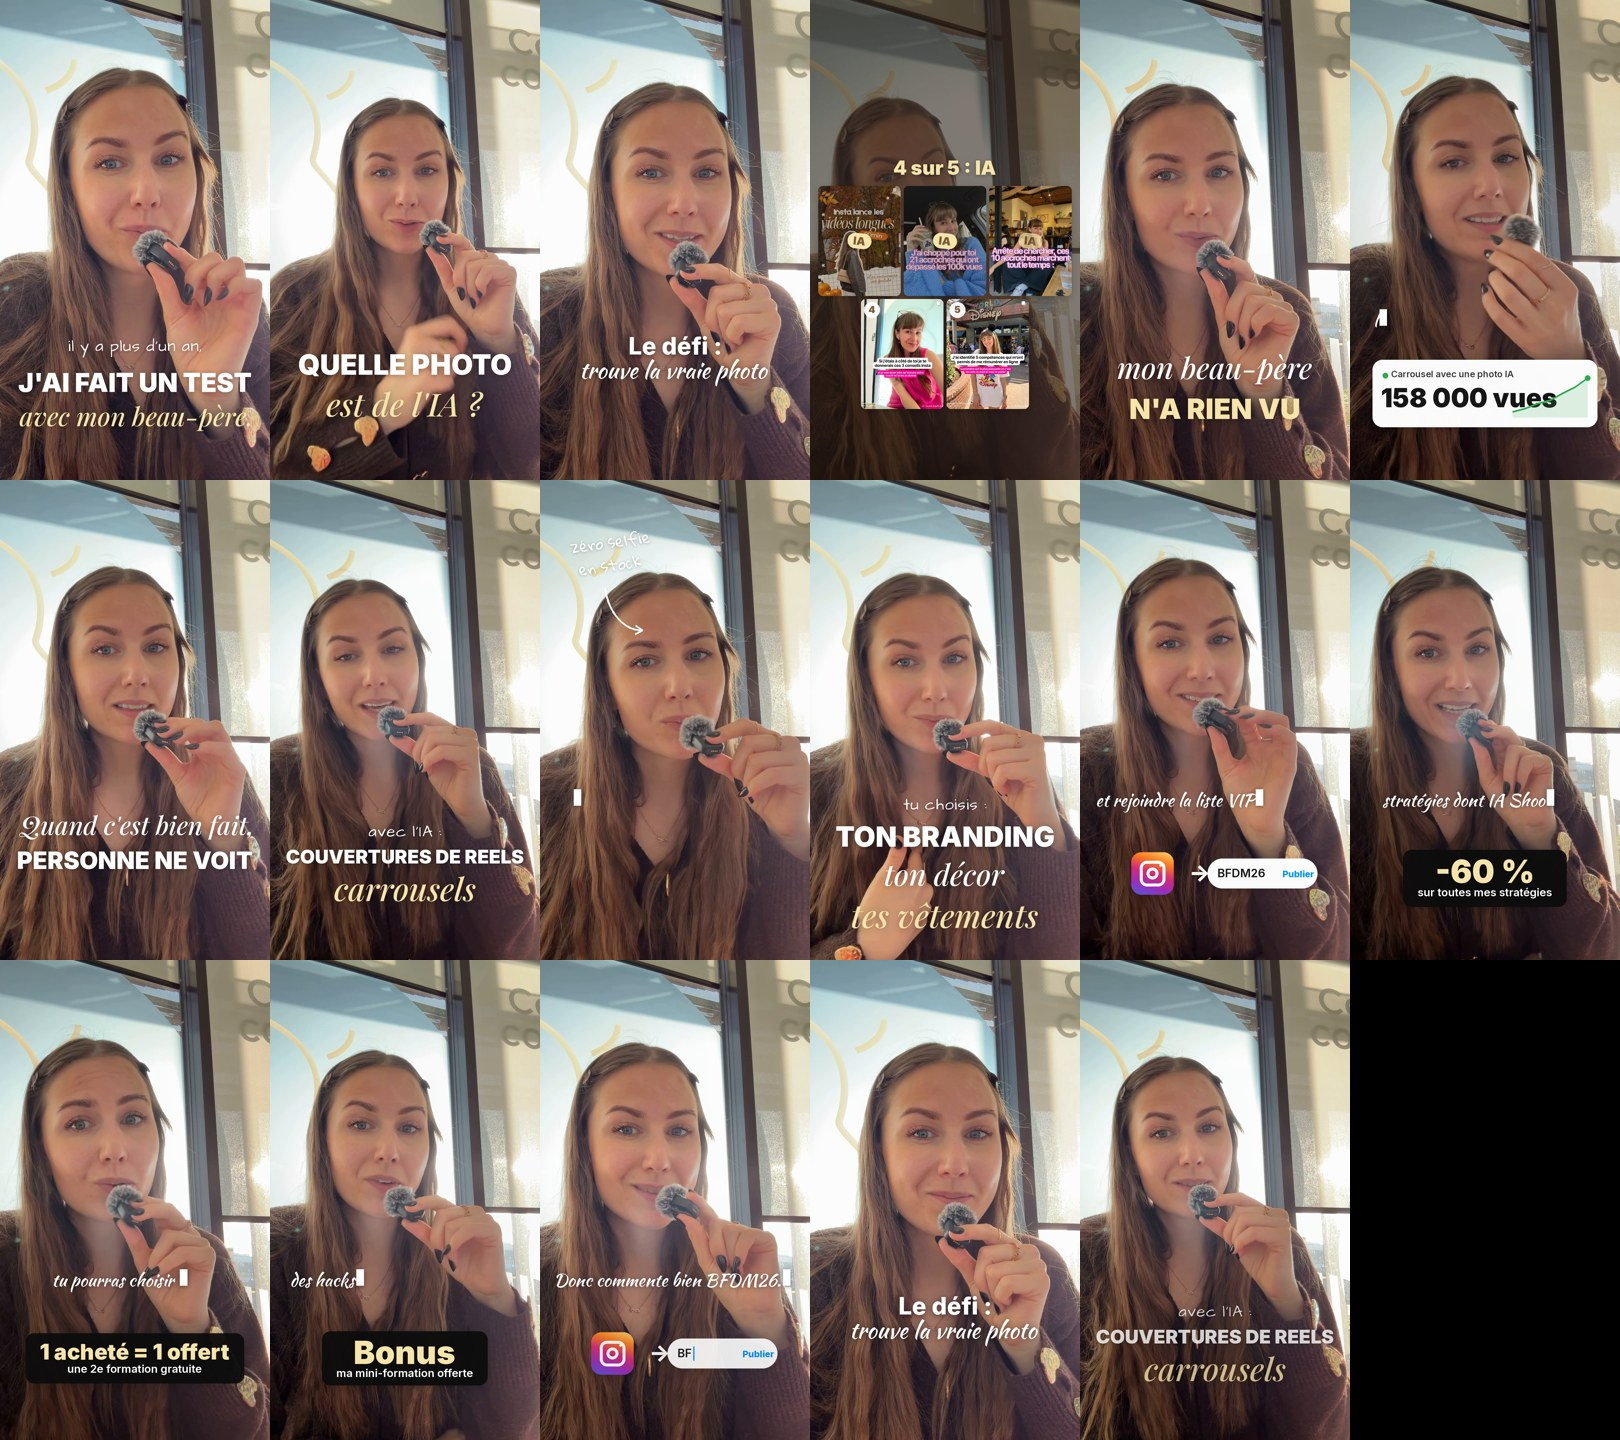
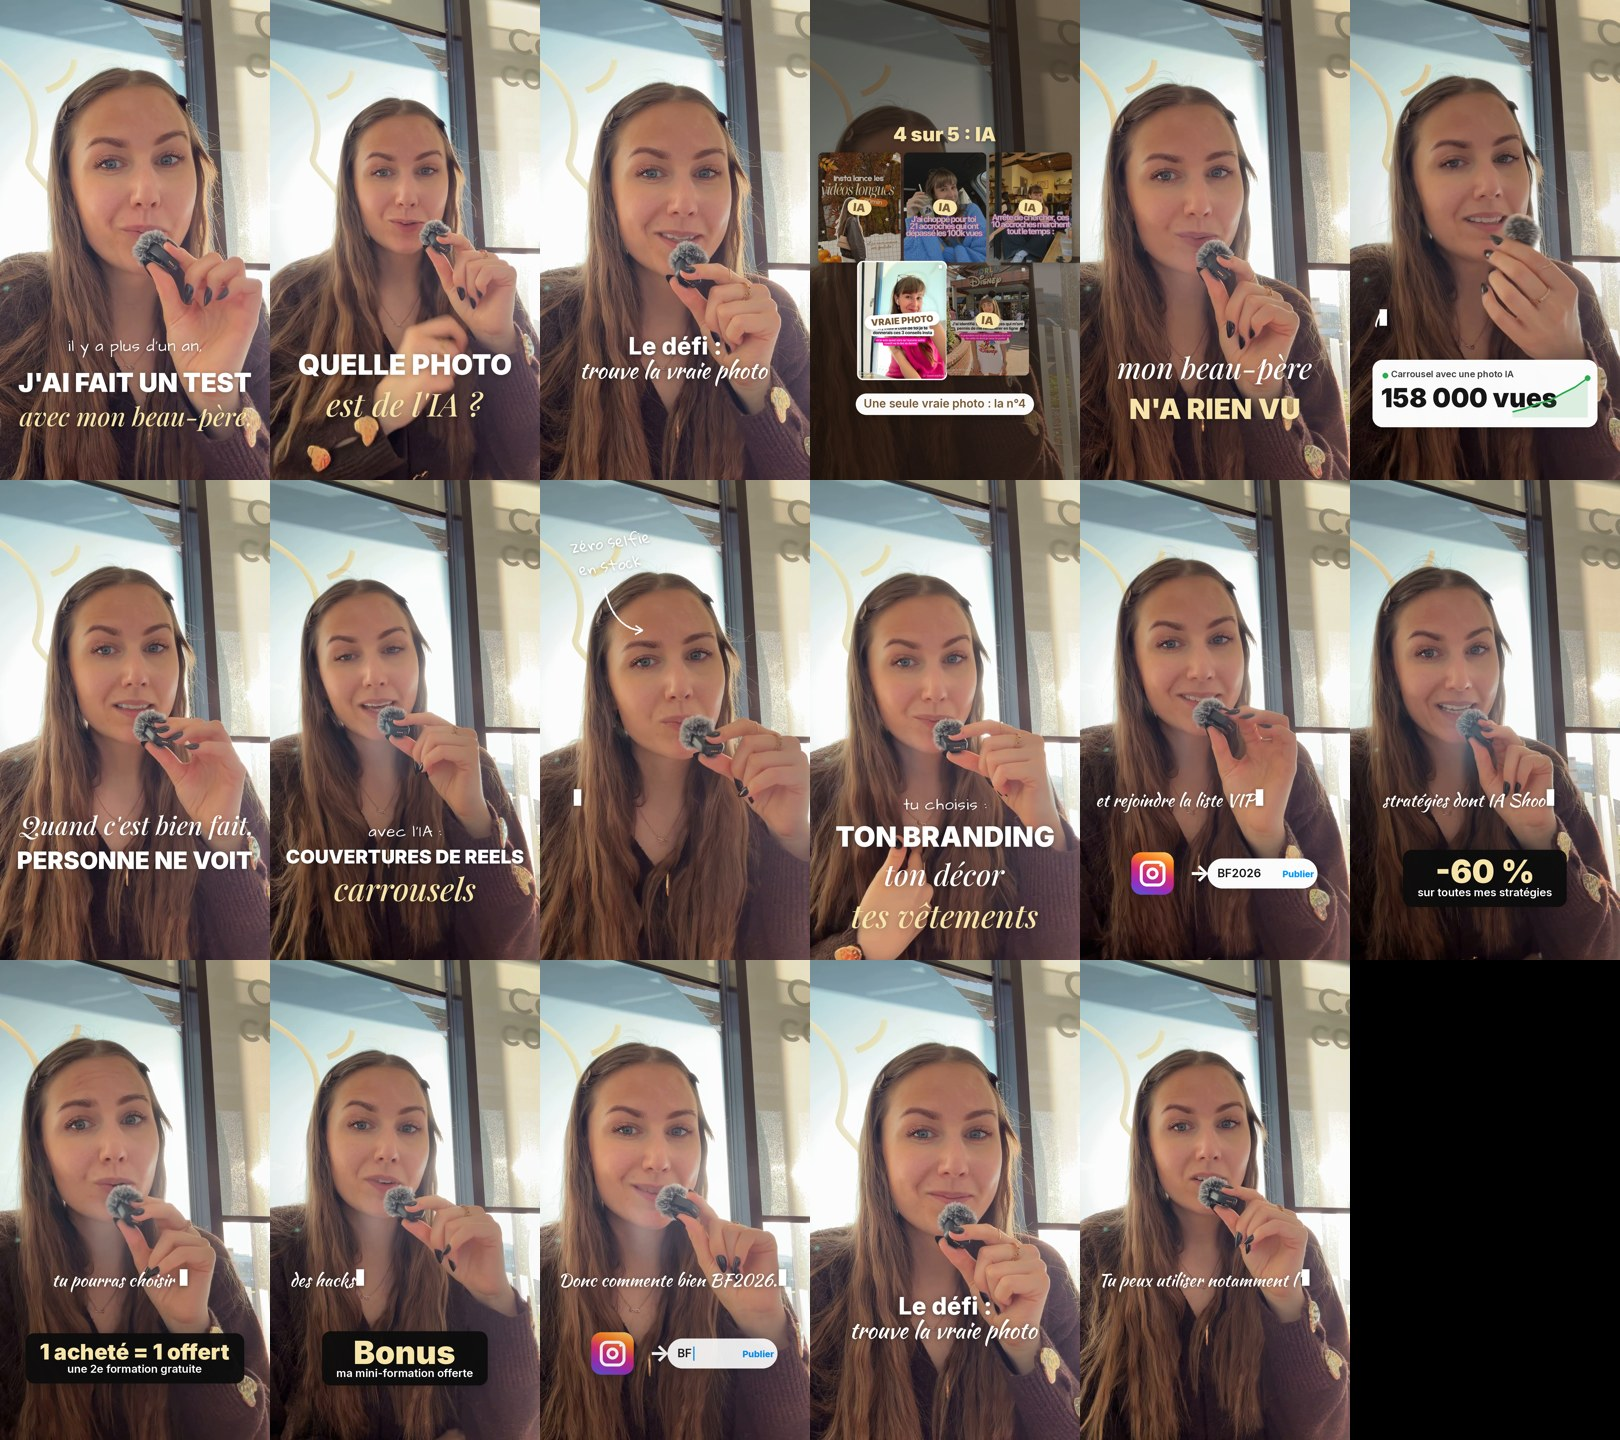
Reel « défi IA » v2 : CTA BF2026, révélation ralentie
Pastilles posées une à une (0,55 s), titre « 4 sur 5 : IA » à la fin,
légende « Une seule vraie photo : la n°4 » et 3 s de pause en plus
(nouvelle option inserer_apres dans render_hd).

Claude-Session: https://claude.ai/code/session_012NkAczQQvfrf3JmhCLvcV2

diff --git a/tools/reel_v2.py b/tools/reel_v2.py
@@ -682,6 +682,13 @@ class Feed(El):
         self.head = text_spr(s["entete"], "black", 78, YELLOW) if s.get("entete") else None
         self.head2 = text_spr(s["entete_revele"], "black", 78, YELLOW) if s.get("entete_revele") else None
         self.reveal = T(s["revele_at"]) if "revele_at" in s else None
+        self.step = s.get("pas_revele", 0.18)
+        self.leg = None
+        if s.get("legende_revele"):
+            tx = text_spr(s["legende_revele"], "semi", 46, (122, 91, 56, 255), shadow=False)
+            pill = rrect((tx.width + 70, tx.height + 40), (tx.height + 40) // 2, (255, 255, 255, 250))
+            pill.alpha_composite(tx, (35, 20))
+            self.leg = shadowed(pill, 14, (0, 8), 120)
         self.badges = {}
         for txt, bg, fg in (("IA", (246, 228, 170, 255), (122, 91, 56, 255)), ("VRAIE PHOTO", (255, 255, 255, 255), (122, 91, 56, 255))):
             tx = text_spr(txt, "black", 44 if txt == "IA" else 36, fg, shadow=False)
@@ -697,14 +704,16 @@ class Feed(El):
             self.nums.append(b)
         self.sfx = [(self.t0, "woosh", 0.4)] + [(self.t0 + 0.12 * k, "pop", 0.25) for k in range(n)]
         if self.reveal is not None:
-            self.sfx += [(self.reveal + 0.18 * k, "click2" if not c[1] else "notif2", 0.6) for k, c in enumerate(self.cells)]
+            self.sfx += [(self.reveal + self.step * k, "click2" if not c[1] else "notif2", 0.6) for k, c in enumerate(self.cells)]
+            if self.leg:
+                self.sfx.append((self.reveal + self.step * len(self.cells) + 0.2, "pop", 0.4))
 
     def draw(self, c, t):
         _, out = self.life(t)
         inn = min(1, (t - self.t0) / 0.3)
         dim = Image.new("RGBA", (W, H), (40, 28, 18, int(150 * inn * out)))
         c.alpha_composite(dim)
-        rv = self.reveal is not None and t >= self.reveal
+        rv = self.reveal is not None and t >= self.reveal + self.step * (len(self.cells) - 1) + 0.3
         hd = self.head2 if (rv and self.head2) else self.head
         if hd:
             put(c, hd, W / 2, self.top - hd.height / 2 - 20, alpha=ease_out((t - self.t0) / 0.3) * out)
@@ -712,7 +721,7 @@ class Feed(El):
             u = (t - self.t0 - 0.12 * k) / 0.35
             if u < 0:
                 continue
-            ta = self.reveal + 0.18 * k if self.reveal is not None else 1e9
+            ta = self.reveal + self.step * k if self.reveal is not None else 1e9
             v = (t - ta) / 0.3
             card = im.copy().convert("RGBA")
             if v >= 0 and not real:
@@ -729,6 +738,12 @@ class Feed(El):
             else:
                 b = self.badges["VRAIE PHOTO" if real else "IA"]
                 put(c, b, x, y, scale=0.5 + 0.5 * ease_back(min(1, v)), alpha=min(1, v * 2) * out, rot=-6 if not real else 4)
+        if self.leg and self.reveal is not None:
+            tl = self.reveal + self.step * len(self.cells) + 0.2
+            u = (t - tl) / 0.35
+            if u >= 0:
+                yb = self.pos[-1][1] + self.ch / 2 + 30 + self.leg.height / 2
+                put(c, self.leg, W / 2, yb + 30 * (1 - ease_out(min(1, u))), scale=0.85 + 0.15 * ease_back(min(1, u)), alpha=min(1, u * 2) * out)
 
 TYPES = {"kinetic": Kinetic, "chapitre": Chapter, "carte_noire": DarkCard, "resultat": ResultCard,
          "dm": DMStack, "telephone": Phone, "menu": Sheet, "commentaire": CommentCTA, "note": Note, "photos": Photos, "capture": Capture, "ecran": ScreenRec, "feed": Feed}

diff --git a/tools/render_hd.py b/tools/render_hd.py
@@ -87,6 +87,16 @@ def plan(tr, ed):
     for s in segs:
         s["s"] = round(s["s"] * FPS) / FPS
         s["e"] = max(s["s"] + 2 / FPS, round(s["e"] * FPS) / FPS)
+    # plans muets insérés après un mot (« pause » pour laisser lire une animation) : {"index": [début, fin] en s source}
+    for k, (a, b) in sorted(((int(k), v) for k, v in ed.get("inserer_apres", {}).items()), reverse=True):
+        j = next(n for n, sg in enumerate(segs) if any(w["i"] == k for w in sg["words"]))
+        sg = segs[j]
+        if sg["words"][-1]["i"] != k:   # coupe le plan juste après ce mot
+            m = [w["i"] for w in sg["words"]].index(k) + 1
+            cut_t = round(sg["words"][m]["start"] * FPS) / FPS
+            segs.insert(j + 1, {"s": cut_t, "e": sg["e"], "last": sg["last"], "words": sg["words"][m:]})
+            sg["e"], sg["last"], sg["words"] = cut_t, k, sg["words"][:m]
+        segs.insert(j + 1, {"s": round(a * FPS) / FPS, "e": round(b * FPS) / FPS, "last": k, "words": []})
     # nouvelle timeline
     t = 0.0
     for s in segs:
